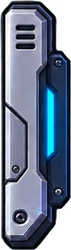
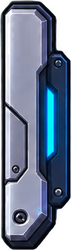
feat(hud): orange on-chain pieces, onboarding and item shop art

Changed region(s): [[0.1972, 0.084, 0.5352, 0.224]]

diff --git a/art/hud/cutHud.py b/art/hud/cutHud.py
@@ -1,5 +1,5 @@
 """Cut hotbarSheet.png, statBarsSheet.png, shopSheet.png, toggleSheet.png and buttonSheet.png into
-the pieces native/hud/hotbar.ms, statBars.ms, shopPopup.ms, toggles.ms, actionButton.ms and
+the pieces native/hud/hotbar.ms, statBars.ms, shopStrip.ms, toggles.ms, actionButton.ms and
 banners.ms draw.
 
 Every piece is resized to the design size those files give it, at the Seeker's 1200 / 360 pixels
@@ -9,7 +9,7 @@ per design unit, so it draws 1:1 there. Run from the repo root: python3 art/hud/
 from collections import deque
 from pathlib import Path
 
-from PIL import Image, ImageChops, ImageOps
+from PIL import Image, ImageOps
 
 SHEET = Path("art/hud/hotbarSheet.png")
 STAT_SHEET = Path("art/hud/statBarsSheet.png")
@@ -58,6 +58,16 @@ def fitted(piece, size):
     width, height = pixels(size)
     scale = min(width / piece.width, height / piece.height)
     return piece.resize((max(1, round(piece.width * scale)), max(1, round(piece.height * scale))), Image.LANCZOS)
+
+
+def endCapFrame(piece):
+    for x in range(26, 72):
+        top = piece.getpixel((x, 42))
+        bottom = piece.getpixel((x, 104))
+        for y in range(43, 104):
+            share = (y - 42) / 62
+            piece.putpixel((x, y), tuple(round(a + (b - a) * share) for a, b in zip(top, bottom)))
+    return piece
 
 
 def stretched(piece, size, end):
@@ -139,80 +149,11 @@ def statIcons():
         whiteGlyph(name, size).save(OUT / ("stat" + name[0].upper() + name[1:] + ".png"))
 
 
-# The shop over the hotbar, assembled from shopSheet.png's slices into shopMockup.jpg's layout,
-# one part at a time: the hex body (nine-sliced, so its chamfers keep their size) is the panel's
-# thin outline; the title strip keeps its two ends and stretches its plain middle; the top-left
-# corner, close box, top-right bracket and side dots sit where the mockup has them. Positions are
-# canvas pixels, the mockup's own pixels from the panel's top-left (mockup (321, 78)); the panel is
-# taller than the mockup's (590, not 487) so it stands as tall over the hotbar, which is thicker
-# here. The outline (canvas x 11 to 1023) is as wide as the hotbar's XP frame.
+# Item icons from shopSheet.png, scaled as the shop panel that sheet was cut for.
 SHOP_SHEET = Path("art/hud/shopSheet.png")
-# The panel is 50 pixels taller than the mockup's for the buttons, twice the mockup's height.
-SHOP_CANVAS = (1030, 640)
 SHOP_OUTLINE = 1012
 SHOP_SCALE = XP_FRAME_SIZE[0] / SHOP_OUTLINE
-# The body's top border is the line under the title and the close box; between it and the
-# outline's top runs a dark band (the mockup's (1, 39, 86)). Short straight pieces of the body's
-# own edges and of the title's top line bridge the outline where the body's corners turn in.
-SHOP_BAND = ((16, 6, 1002, 62), (1, 39, 86, 255))
-SHOP_BODY = ((118, 155, 1004, 538), (11, 59, 1016, 581), 60)
-SHOP_TITLE = [
-    ((142, 72, 600, 147), (11, 0, 458, 75)),
-    ((600, 72, 670, 147), (469, 0, 185, 75)),
-    ((670, 72, 921, 147), (654, 0, 251, 75)),
-]
-SHOP_OUTLINE_PARTS = [
-    ((122, 300, 134, 360), (15, 62, 12, 50)),
-    ((988, 300, 1000, 360), (1011, 62, 12, 60)),
-    ((700, 76, 860, 86), (884, 2, 112, 10)),
-    ((32, 72, 120, 159), (16, 4, 70, 70)),
-    ((1006, 66, 1092, 148), (923, 8, 64, 62)),
-    ((926, 70, 983, 152), (975, 0, 48, 70)),
-    ((33, 266, 46, 366), (0, 190, 10, 80)),
-    ((33, 266, 46, 366), (1020, 190, 10, 80)),
-]
-# Three projectors on the hotbar's edge under the panel: a cone from the middle, and a beam from
-# each end up to the panel's bottom corners; a glow line along the edge. Each piece's bright tip
-# sits on the canvas' bottom edge. The side beams are drawn at 1.7 times their sheet opacity, as
-# bright as the mockup's.
-SHOP_HOLOGRAM_CANVAS = (1030, 110)
-SHOP_HOLOGRAM_PARTS = [
-    ((182, 1207, 442, 1361), (265, 0, 500, 110)),
-    ((58, 1206, 164, 1321), (4, 0, 62, 110), 1.7),
-    ((456, 1212, 551, 1320), (964, 0, 62, 110), 1.7),
-    ((569, 1218, 839, 1250), (40, 96, 950, 16)),
-]
-# Canvas pixels of the content pieces; shopPopup.ms places them.
-SHOP_CELL_CANVAS = (172, 140)
-SHOP_CELL_CORNER = 36
-# The selection check, lifted off its cell by brightness so it draws over the item.
-SHOP_CHECK_CANVAS = (40, 40)
-# PURCHASE and CANCEL, nine-sliced so their chamfered ends keep their shape at any height.
-SHOP_BUTTONS = {
-    "shopPurchase": ((38, 905, 385, 982), (346, 100)),
-    "shopCancel": ((405, 907, 745, 976), (343, 100)),
-}
-SHOP_BUTTON_CORNER = 30
-SHOP_CHECK_FLOOR = 110
 SHOP_ITEM_CANVAS = (118, 104)
-SHOP_CART = ((207, 90, 252, 129), (35, 28))
-# The price plate under a cell: the sheet's plate turned upside down (the mockup's has its
-# chamfers at the bottom), its fill and rim darkened to the mockup's (0, 25, 55) and (0, 90, 150).
-SHOP_TAG = ((374, 656, 578, 693), (152, 28))
-SHOP_TAG_FILL_GREEN = 110
-SHOP_TAG_FILL_SHADE = 0.45
-SHOP_TAG_RIM_SHADE = 0.65
-SHOP_CELLS = {
-    "shopCell": (37, 741, 199, 875),
-    "shopCellBright": (224, 738, 385, 879),
-    "shopCellPlus": (580, 741, 736, 875),
-    "shopCellDisabled": (757, 741, 911, 875),
-}
-SHOP_CHECK = ((404, 741, 560, 875), (100, 0, 156, 56))
-SHOP_PLATES = {
-    "shopBalance": ((597, 655, 814, 702), (145, 30)),
-    "shopGem": ((798, 916, 848, 975), (22, 26)),
-}
 # Item icons: shop size from shopSheet.png, and hotbar size for those the hotbar sheet lacks.
 SHOP_ITEMS = {
     "Sword": (22, 1014, 128, 1146),
@@ -231,22 +172,6 @@ HOTBAR_ITEM_SIZE = (31.0, 31.0)
 
 def canvasPixels(size):
     return pixels((size[0] * SHOP_SCALE, size[1] * SHOP_SCALE))
-
-
-# Corners kept at `corner` source pixels, edges and middle stretched to `size` source pixels.
-def nineSliced(piece, size, corner):
-    width, height = size
-    source_width, source_height = piece.size
-    out = Image.new("RGBA", size)
-    columns = [(0, corner, 0, corner), (corner, source_width - corner, corner, width - corner),
-        (source_width - corner, source_width, width - corner, width)]
-    rows = [(0, corner, 0, corner), (corner, source_height - corner, corner, height - corner),
-        (source_height - corner, source_height, height - corner, height)]
-    for sx0, sx1, dx0, dx1 in columns:
-        for sy0, sy1, dy0, dy1 in rows:
-            tile = piece.crop((sx0, sy0, sx1, sy1)).resize((dx1 - dx0, dy1 - dy0), Image.LANCZOS)
-            out.paste(tile, (dx0, dy0))
-    return out
 
 
 # The sheet's item icons overlap each other's boxes: keep only the largest opaque blob of a crop
@@ -282,61 +207,7 @@ def isolated(piece, threshold=24):
     return out
 
 
-def placed(sheet, out, parts):
-    for part in parts:
-        box, (x, y, width, height) = part[0], part[1]
-        piece = sheet.crop(box).resize((width, height), Image.LANCZOS)
-        if len(part) > 2:
-            gain = part[2]
-            piece.putalpha(piece.getchannel("A").point(lambda v: min(255, round(v * gain))))
-        out.alpha_composite(piece, (x, y))
-
-
 def shopPieces(sheet):
-    frame = Image.new("RGBA", SHOP_CANVAS)
-    (x, y, width, height), colour = SHOP_BAND
-    frame.alpha_composite(Image.new("RGBA", (width, height), colour), (x, y))
-    box, (x, y, width, height), corner = SHOP_BODY
-    frame.alpha_composite(nineSliced(sheet.crop(box), (width, height), corner), (x, y))
-    placed(sheet, frame, SHOP_TITLE)
-    placed(sheet, frame, SHOP_OUTLINE_PARTS)
-    frame.resize(canvasPixels(SHOP_CANVAS), Image.LANCZOS).save(OUT / "shopFrame.png")
-    hologram = Image.new("RGBA", SHOP_HOLOGRAM_CANVAS)
-    placed(sheet, hologram, SHOP_HOLOGRAM_PARTS)
-    hologram.resize(canvasPixels(SHOP_HOLOGRAM_CANVAS), Image.LANCZOS).save(OUT / "shopHologram.png")
-    for name, box in SHOP_CELLS.items():
-        if name == "shopCellBright":
-            continue
-        cell = nineSliced(sheet.crop(box), SHOP_CELL_CANVAS, SHOP_CELL_CORNER)
-        cell.resize(canvasPixels(SHOP_CELL_CANVAS), Image.LANCZOS).save(OUT / (name + ".png"))
-    selected = nineSliced(sheet.crop(SHOP_CELLS["shopCellBright"]), SHOP_CELL_CANVAS, SHOP_CELL_CORNER)
-    selected.resize(canvasPixels(SHOP_CELL_CANVAS), Image.LANCZOS).save(OUT / "shopCellSelected.png")
-    checkBox, checkArea = SHOP_CHECK
-    raw = sheet.crop(checkBox).crop(checkArea)
-    floor = SHOP_CHECK_FLOOR
-    bright = raw.convert("L").point(lambda v: max(0, min(255, (v - floor) * 255 // (255 - floor))))
-    check = Image.new("RGBA", raw.size, (255, 255, 255, 255))
-    check.putalpha(ImageChops.multiply(bright, raw.getchannel("A")))
-    check.resize(canvasPixels(SHOP_CHECK_CANVAS), Image.LANCZOS).save(OUT / "shopCheck.png")
-    for name, (box, size) in SHOP_PLATES.items():
-        sheet.crop(box).resize(canvasPixels(size), Image.LANCZOS).save(OUT / (name + ".png"))
-    for name, (box, size) in SHOP_BUTTONS.items():
-        button = nineSliced(sheet.crop(box), size, SHOP_BUTTON_CORNER)
-        button.resize(canvasPixels(size), Image.LANCZOS).save(OUT / (name + ".png"))
-    box, size = SHOP_TAG
-    tag = ImageOps.flip(sheet.crop(box))
-    pixels_ = tag.load()
-    for y in range(tag.height):
-        for x in range(tag.width):
-            r, g, b, a = pixels_[x, y]
-            shade = SHOP_TAG_FILL_SHADE if g < SHOP_TAG_FILL_GREEN else SHOP_TAG_RIM_SHADE
-            pixels_[x, y] = (round(r * shade), round(g * shade), round(b * shade), a)
-    tag.resize(canvasPixels(size), Image.LANCZOS).save(OUT / "shopTag.png")
-    box, size = SHOP_CART
-    cart = sheet.crop(box).convert("L").point(lambda v: max(0, min(255, (v - 120) * 255 // 100)))
-    glyph = Image.new("RGBA", cart.size, (255, 255, 255, 255))
-    glyph.putalpha(cart)
-    glyph.resize(canvasPixels(size), Image.LANCZOS).save(OUT / "shopCart.png")
     for name, box in SHOP_ITEMS.items():
         icon = isolated(sheet.crop(box))
         width, height = canvasPixels(SHOP_ITEM_CANVAS)
@@ -364,21 +235,12 @@ def togglePieces(sheet):
         sheet.crop((x - half, y - half, x + half, y + half)).resize(pixels(TOGGLE_SIZE), Image.LANCZOS).save(OUT / (name + ".png"))
 
 
-# SET AS WALLPAPER: the sheet's blue button and its glowing look (held), cropped round the same
-# centre with room for the glow and stretched to the label's width with both ends kept. The yellow
-# row's glow starts right under the blue's, so the crop stops above it and the halo fades out.
+# The banners are cut from the sheet's blue button. The yellow row's glow starts right under it,
+# so the crop stops above that glow and the button's bottom rows fade out.
 BUTTON_SHEET = Path("art/hud/buttonSheet.png")
-WALLPAPER_BUTTONS = {
-    "wallpaperButton": (7, 545, 285, 646),
-    "wallpaperButtonHeld": (283, 545, 561, 646),
-}
-WALLPAPER_BUTTON_END = 70
-WALLPAPER_BUTTON_FADE = 8
-WALLPAPER_BUTTON_SIZE = (137.0, 30.0)
-
-
-# The glyph after SET AS WALLPAPER on Home: the kit's house, as Settings' wallpaper row has.
-WALLPAPER_GLYPH = ("home", 10.0)
+BANNER_BUTTON = (7, 545, 285, 646)
+BANNER_BUTTON_END = 70
+BANNER_BUTTON_FADE = 8
 
 
 # The banners on Home: the same blue button at banner height, cut into its chevron end, a strip of
@@ -391,29 +253,41 @@ def fadedButton(sheet, box):
     button = sheet.crop(box)
     alpha = button.getchannel("A")
     values = alpha.load()
-    for row in range(WALLPAPER_BUTTON_FADE):
+    for row in range(BANNER_BUTTON_FADE):
         y = button.height - 1 - row
         for x in range(button.width):
-            values[x, y] = values[x, y] * row // WALLPAPER_BUTTON_FADE
+            values[x, y] = values[x, y] * row // BANNER_BUTTON_FADE
     button.putalpha(alpha)
     return button
 
 
-def buttonPieces(sheet):
-    for name, box in WALLPAPER_BUTTONS.items():
-        stretched(fadedButton(sheet, box), WALLPAPER_BUTTON_SIZE, WALLPAPER_BUTTON_END).save(OUT / (name + ".png"))
-
-
 def bannerPieces(sheet):
-    button = fadedButton(sheet, WALLPAPER_BUTTONS["wallpaperButton"])
+    button = fadedButton(sheet, BANNER_BUTTON)
     height = round(BANNER_HEIGHT * DENSITY)
     scale = height / button.height
     scaled = button.resize((round(button.width * scale), height), Image.LANCZOS)
-    end = round(WALLPAPER_BUTTON_END * scale)
+    end = round(BANNER_BUTTON_END * scale)
     middle = scaled.width // 2
     scaled.crop((0, 0, end, height)).save(OUT / "bannerStart.png")
     scaled.crop((middle, 0, middle + BANNER_STRIP, height)).save(OUT / "bannerBody.png")
     scaled.crop((scaled.width - end, 0, scaled.width, height)).save(OUT / "bannerEnd.png")
+
+
+# A press that changes the Pet on chain is orange: these pieces are also saved hue-turned as <name>Orange.
+ORANGE = ["plusSlot", "bannerStart", "bannerBody", "bannerEnd"]
+ORANGE_HUE_TURN = -118
+
+
+def orange(piece):
+    hue, saturation, value = piece.convert("HSV").split()
+    turned = Image.merge("HSV", (hue.point(lambda h: (h + ORANGE_HUE_TURN) % 256), saturation, value)).convert("RGBA")
+    turned.putalpha(piece.getchannel("A"))
+    return turned
+
+
+def orangePieces():
+    for name in ORANGE:
+        orange(Image.open(OUT / (name + ".png")).convert("RGBA")).save(OUT / (name + "Orange.png"))
 
 
 def main():
@@ -422,7 +296,13 @@ def main():
     for stale in OUT.glob("*.png"):
         stale.unlink()
     for name, (box, size) in FITTED.items():
-        fitted(sheet.crop(box), size).save(OUT / (name + ".png"))
+        part = sheet.crop(box)
+        if name == "endCap":
+            part = endCapFrame(part)
+        if name == "levelPlate":
+            part.resize(pixels(size), Image.LANCZOS).save(OUT / (name + ".png"))
+        else:
+            fitted(part, size).save(OUT / (name + ".png"))
     for name, (box, size) in EXACT.items():
         sheet.crop(box).resize(pixels(size), Image.LANCZOS).save(OUT / (name + ".png"))
     stretched(sheet.crop(XP_FRAME_BOX), XP_FRAME_SIZE, XP_FRAME_END).save(OUT / "xpFrame.png")
@@ -431,9 +311,8 @@ def main():
     statIcons()
     shopPieces(Image.open(SHOP_SHEET).convert("RGBA"))
     togglePieces(Image.open(TOGGLE_SHEET).convert("RGBA"))
-    buttonPieces(Image.open(BUTTON_SHEET).convert("RGBA"))
-    whiteGlyph(*WALLPAPER_GLYPH).save(OUT / "wallpaperGlyph.png")
     bannerPieces(Image.open(BUTTON_SHEET).convert("RGBA"))
+    orangePieces()
 
 
 if __name__ == "__main__":

diff --git a/art/hud/cutOnboarding.py b/art/hud/cutOnboarding.py
@@ -1,0 +1,47 @@
+from pathlib import Path
+
+from PIL import Image, ImageChops, ImageDraw, ImageOps
+
+ROOT = Path(__file__).resolve().parents[2]
+SHEET = ROOT / "art/hud/onboardingSheet.png"
+OUT = ROOT / "assets/hud/pieces"
+
+PIECES = {
+    "onboardingCreate": (18, 700, 726, 898),
+    "onboardingName": (10, 405, 698, 533),
+    "onboardingPrevious": (20, 539, 198, 698),
+    "onboardingNext": (216, 538, 387, 698),
+    "onboardingHologram": (642, 130, 1122, 690),
+    "onboardingWallet": (740, 800, 1108, 895),
+}
+# A dead Pet's onboarding shows these in grey, saved as <name>Dead.
+DEAD_GREY = ["onboardingHologram", "onboardingName"]
+
+
+def main():
+    sheet = Image.open(SHEET).convert("RGBA")
+    assert sheet.size == (1122, 1402), "Onboarding sheet size changed; review crop bounds."
+    OUT.mkdir(parents=True, exist_ok=True)
+    for name, bounds in PIECES.items():
+        cropped = sheet.crop(bounds)
+        alpha = cropped.getchannel("A")
+        if name == "onboardingHologram":
+            ImageDraw.Draw(alpha).rectangle((0, 0, 62, 403), fill=0)
+        mask = alpha.point(lambda value: 255 if value else 0)
+        seed = (cropped.width // 2, cropped.height // 2)
+        assert mask.getpixel(seed) == 255, f"{name}: crop seed is transparent."
+        ImageDraw.floodfill(mask, seed, 128)
+        mask = mask.point(lambda value: 255 if value == 128 else 0)
+        cropped.putalpha(ImageChops.multiply(alpha, mask))
+        minimum, maximum = cropped.getchannel("A").getextrema()
+        assert minimum == 0 and maximum > 0, f"{name}: crop lost transparency or content."
+        cropped.save(OUT / f"{name}.png")
+        if name in DEAD_GREY:
+            grey = ImageOps.grayscale(cropped).convert("RGBA")
+            grey.putalpha(cropped.getchannel("A"))
+            grey.save(OUT / f"{name}Dead.png")
+        print(f"{name}: {cropped.width}x{cropped.height}")
+
+
+if __name__ == "__main__":
+    main()

diff --git a/art/hud/cutItemShop.py b/art/hud/cutItemShop.py
@@ -1,0 +1,35 @@
+from pathlib import Path
+
+from PIL import Image, ImageChops, ImageDraw
+
+ROOT = Path(__file__).resolve().parents[2]
+SHEET = ROOT / "art/hud/itemShopSheet.png"
+OUT = ROOT / "assets/hud/pieces"
+
+PIECES = {
+    "itemCard": (20, 80, 548, 597),
+    "shopStrip": (17, 723, 1105, 944),
+}
+
+
+def main():
+    sheet = Image.open(SHEET).convert("RGBA")
+    assert sheet.size == (1122, 1402), "Item shop sheet size changed; review crop bounds."
+    OUT.mkdir(parents=True, exist_ok=True)
+    for name, bounds in PIECES.items():
+        cropped = sheet.crop(bounds)
+        alpha = cropped.getchannel("A")
+        mask = alpha.point(lambda value: 255 if value else 0)
+        seed = (cropped.width // 2, cropped.height // 2)
+        assert mask.getpixel(seed) == 255, f"{name}: crop seed is transparent."
+        ImageDraw.floodfill(mask, seed, 128)
+        mask = mask.point(lambda value: 255 if value == 128 else 0)
+        cropped.putalpha(ImageChops.multiply(alpha, mask))
+        minimum, maximum = cropped.getchannel("A").getextrema()
+        assert minimum == 0 and maximum > 0, f"{name}: crop lost transparency or content."
+        cropped.save(OUT / f"{name}.png")
+        print(f"{name}: {cropped.width}x{cropped.height}")
+
+
+if __name__ == "__main__":
+    main()
